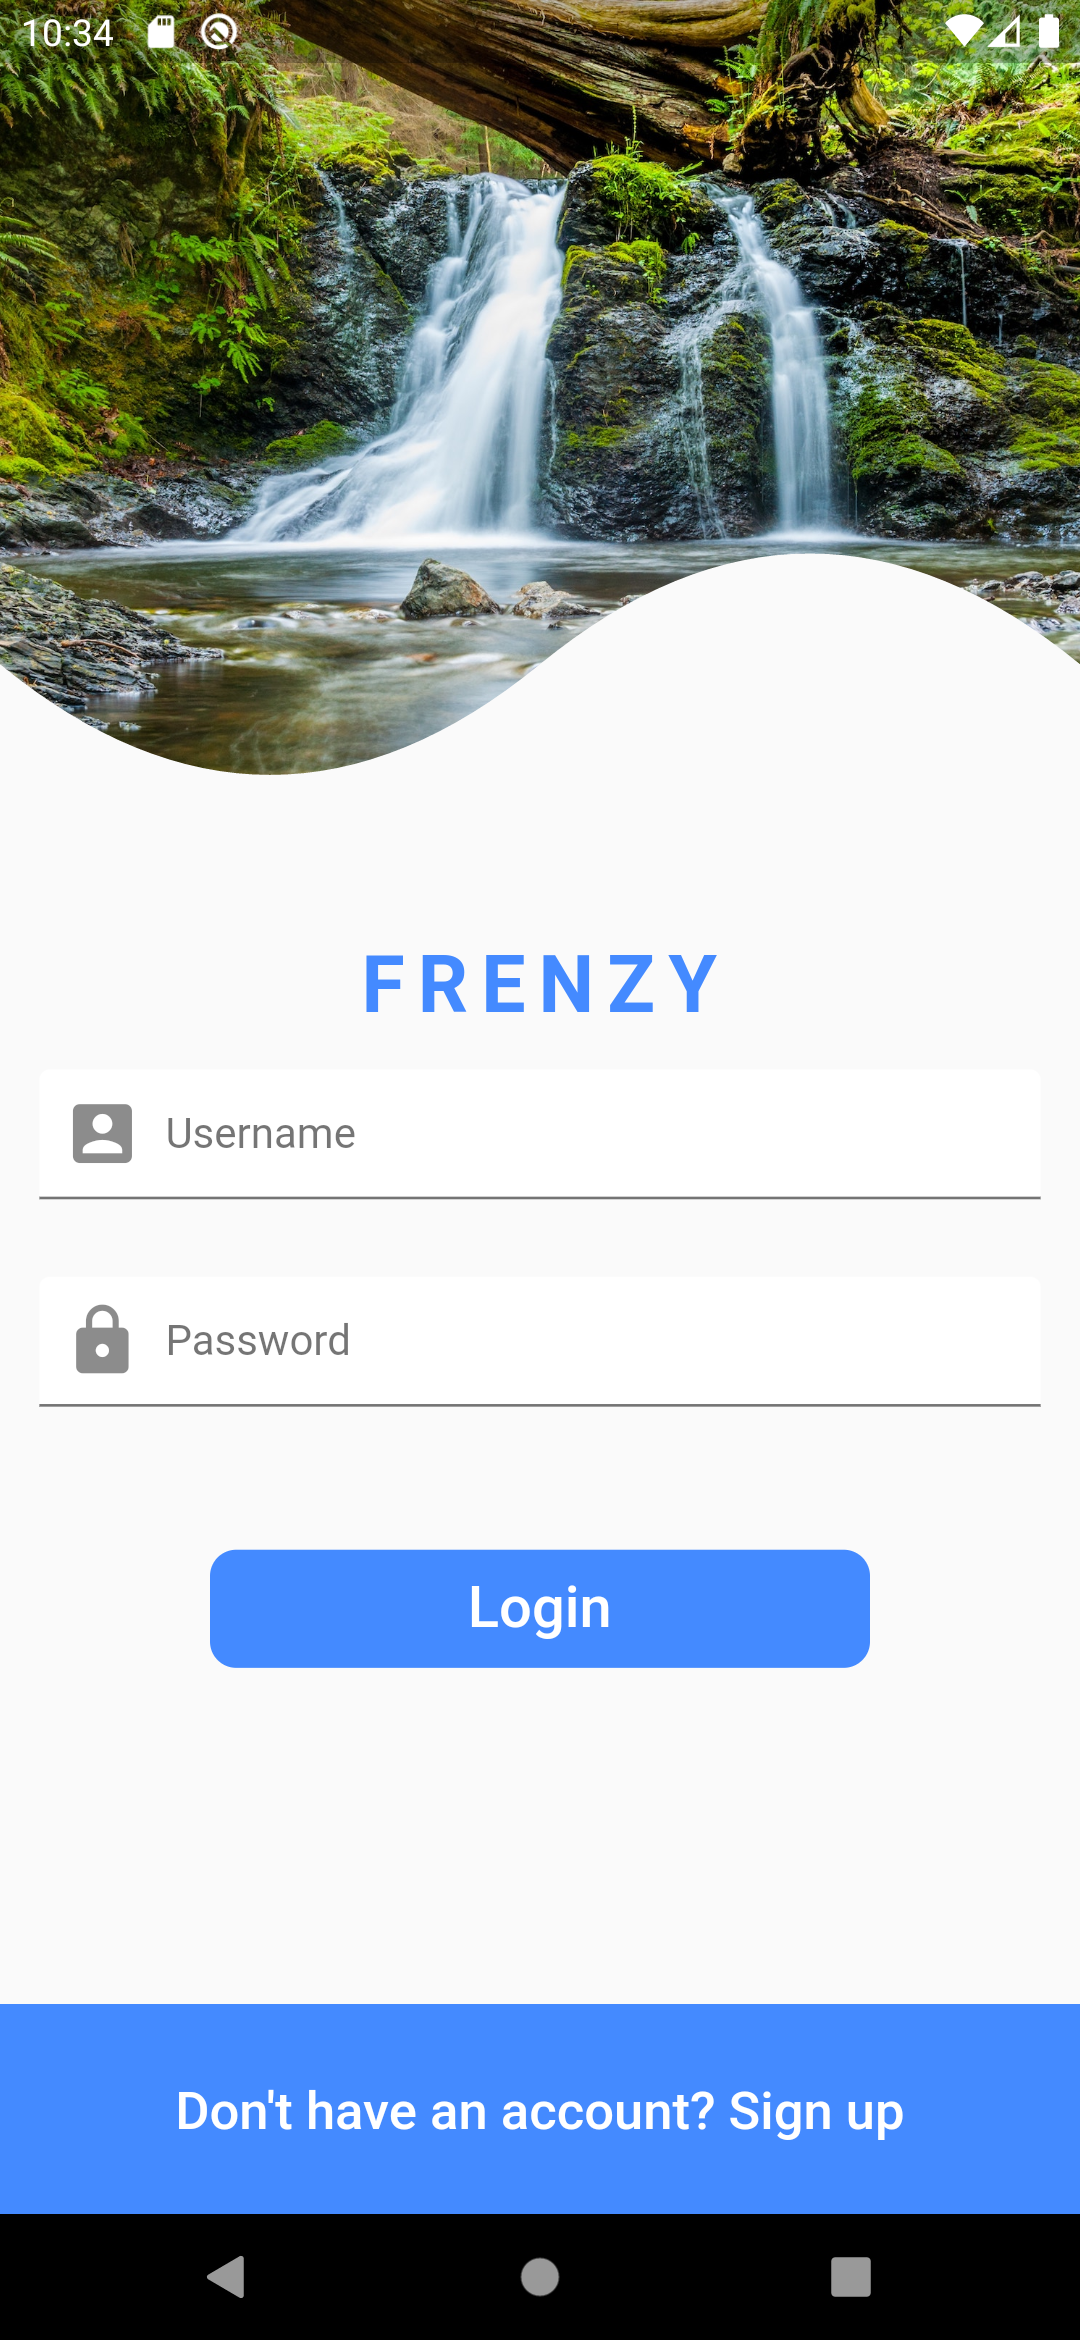
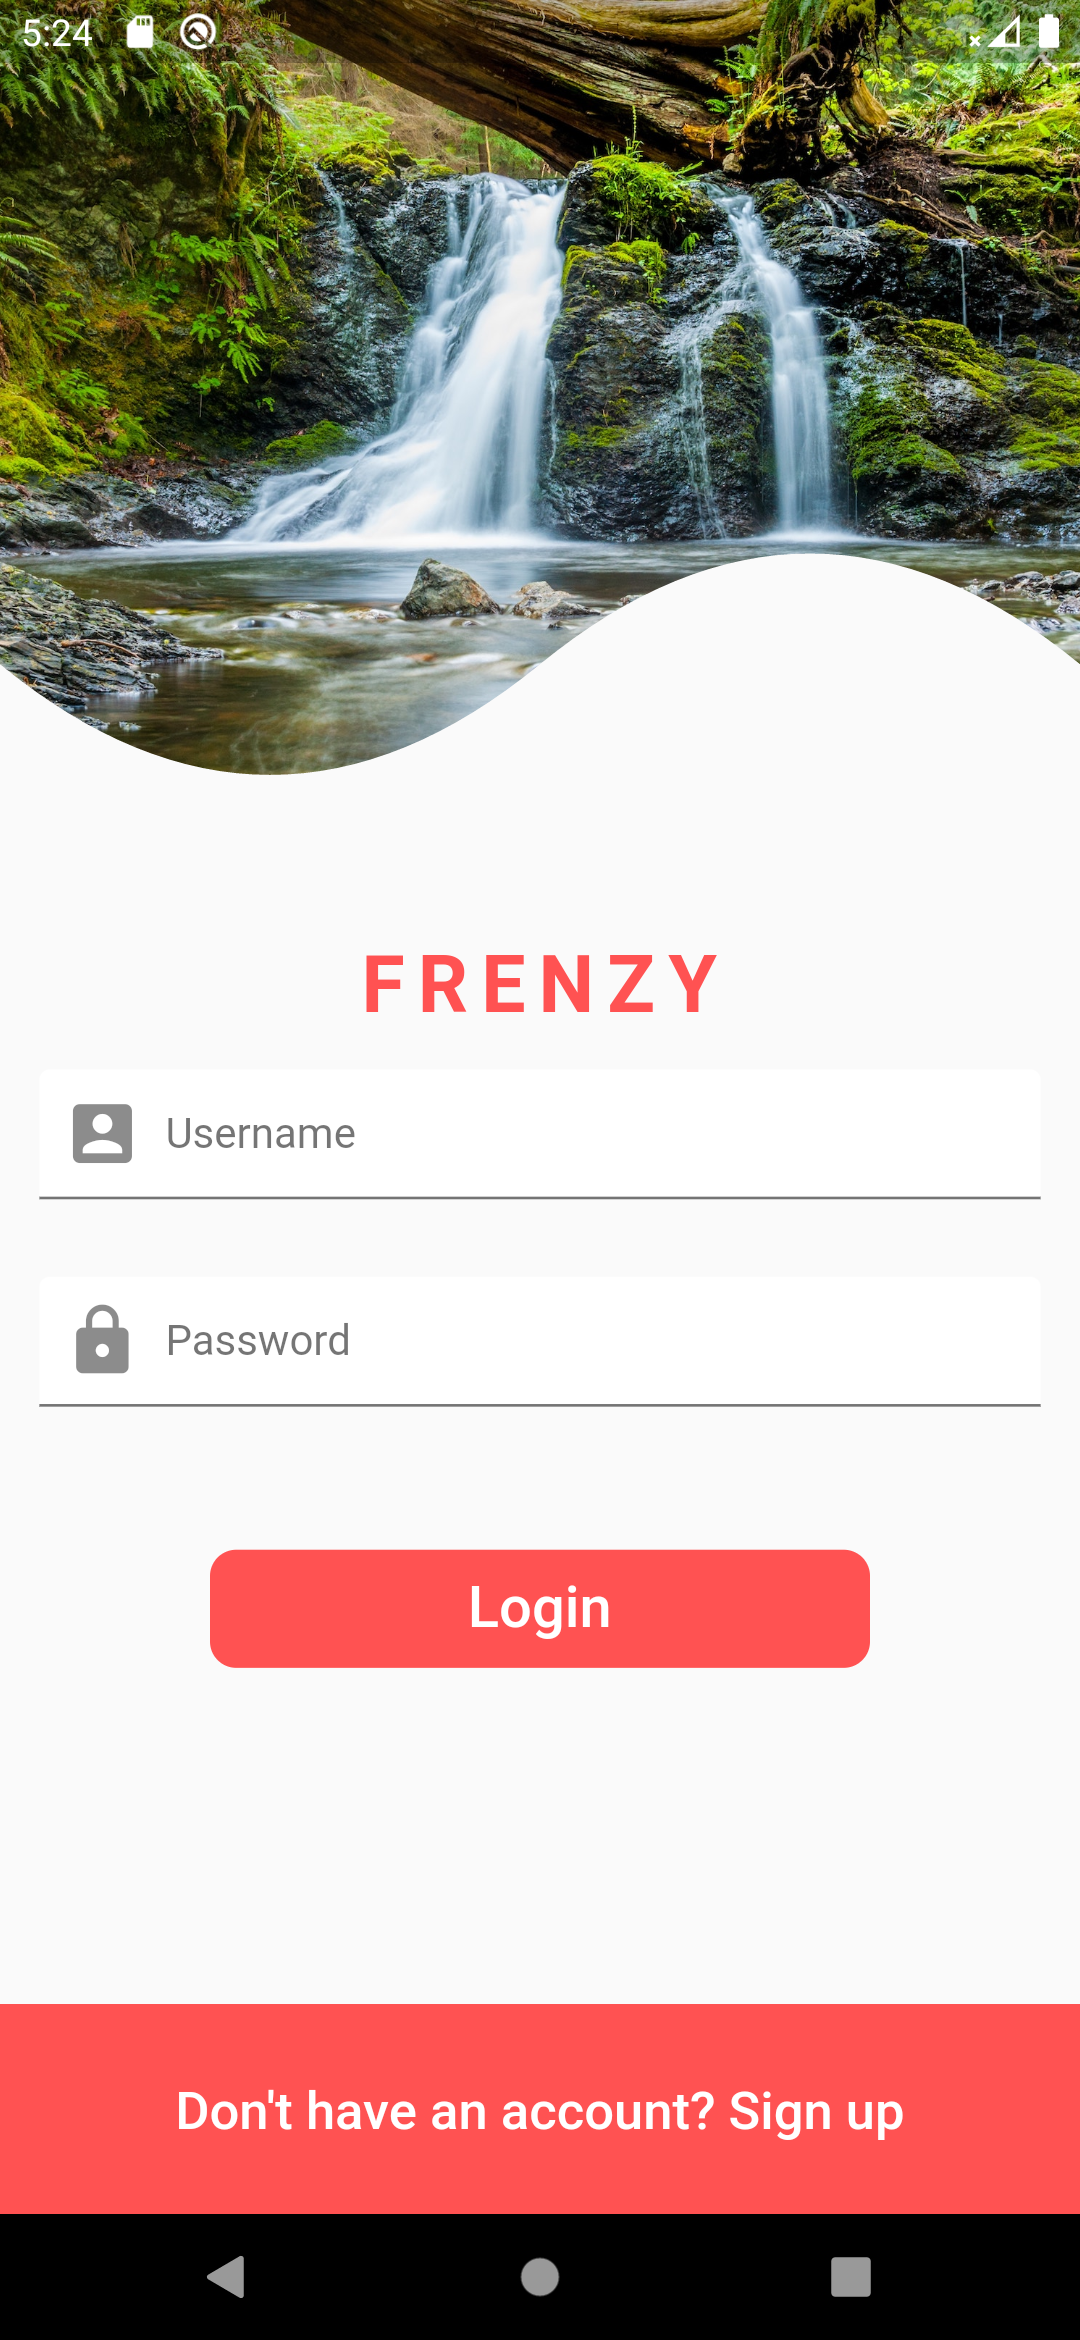
Add HomeScreen AppBar with TabBar of Two Tabs

diff --git a/lib/screens/home_screen.dart b/lib/screens/home_screen.dart
@@ -1,9 +1,52 @@
 import 'package:flutter/material.dart';
 
-class HomeScreen extends StatelessWidget {
+class HomeScreen extends StatefulWidget {
+  @override
+  _HomeScreenState createState() => _HomeScreenState();
+}
+
+class _HomeScreenState extends State<HomeScreen>
+    with SingleTickerProviderStateMixin {
+  TabController _tabController;
+
+  @override
+  void initState() {
+    super.initState();
+    _tabController = TabController(length: 2, vsync: this);
+  }
+
   @override
   Widget build(BuildContext context) {
     return Scaffold(
+      appBar: AppBar(
+        backgroundColor: Colors.white,
+        iconTheme: IconThemeData(color: Theme.of(context).primaryColor),
+        centerTitle: true,
+        title: Text(
+          'FRENZY',
+          style: TextStyle(
+              color: Theme.of(context).primaryColor,
+              letterSpacing: 6.0,
+              fontSize: 20,
+              fontWeight: FontWeight.bold),
+        ),
+        bottom: TabBar(
+          labelColor: Theme.of(context).primaryColor,
+          labelStyle: TextStyle(fontSize: 18, fontWeight: FontWeight.w600),
+          unselectedLabelStyle:
+              TextStyle(fontSize: 16, fontWeight: FontWeight.w600),
+          indicatorWeight: 4.0,
+          controller: _tabController,
+          tabs: [
+            Tab(
+              text: 'Trending',
+            ),
+            Tab(
+              text: 'Latest',
+            ),
+          ],
+        ),
+      ),
       body: Container(),
     );
   }

diff --git a/lib/screens/login_screen.dart b/lib/screens/login_screen.dart
@@ -1,5 +1,6 @@
 import 'package:flutter/material.dart';
 import 'package:flutter_social_ui/helpers/login_image_clipper.dart';
+import 'package:flutter_social_ui/screens/home_screen.dart';
 
 class LoginScreen extends StatelessWidget {
   @override
@@ -64,7 +65,10 @@ class LoginScreen extends StatelessWidget {
                 height: 40.0,
               ),
               GestureDetector(
-                onTap: () {},
+                onTap: () {
+                  Navigator.pushReplacement(context,
+                      MaterialPageRoute(builder: (context) => HomeScreen()));
+                },
                 child: Container(
                   height: 45.0,
                   alignment: Alignment.center,

diff --git a/lib/main.dart b/lib/main.dart
@@ -8,11 +8,11 @@ class MyApp extends StatelessWidget {
   @override
   Widget build(BuildContext context) {
     return MaterialApp(
-      title: 'Frenzy Social Media App',
+      title: 'Frenzy App',
       debugShowCheckedModeBanner: false,
       theme: ThemeData(
-        primaryColor: Colors.blueAccent,
-        primarySwatch: Colors.blue,
+        primaryColor: Colors.redAccent,
+        primarySwatch: Colors.red,
       ),
       home: LoginScreen(),
     );
